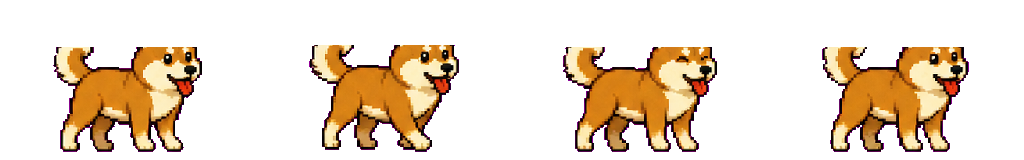
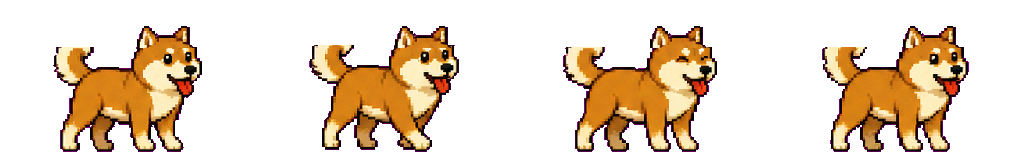
fix: preserve desktop pet ears and fall frames

diff --git a/js/main.js b/js/main.js
@@ -53,9 +53,9 @@ document.addEventListener("DOMContentLoaded", () => {
     if (document.querySelector('link[data-desktop-pet-style]')) return;
     const petStyles = document.createElement("link");
     petStyles.rel = "stylesheet";
-    petStyles.href = new URL("css/desktop-pet.css?v=1.5.0", siteRoot).href;
+    petStyles.href = new URL("css/desktop-pet.css?v=1.6.0", siteRoot).href;
     petStyles.dataset.desktopPetStyle = "true";
-    const petModuleUrl = new URL("js/desktop-pet.js?v=1.5.0", siteRoot).href;
+    const petModuleUrl = new URL("js/desktop-pet.js?v=1.6.0", siteRoot).href;
     // 样式就绪后再加载组件，避免慢速网络下未应用 CSS 的桌宠短暂闪现。
     petStyles.addEventListener("load", () => {
       void import(petModuleUrl).catch((error) => console.error(`桌宠模块加载失败：${petModuleUrl}`, error));

diff --git a/js/desktop-pet.js b/js/desktop-pet.js
@@ -148,7 +148,8 @@ var SpriteTransitionController = class {
 };
 
 // ../src/components/DesktopPet/petAssets.ts
-var petAsset = (fileName) => new URL(`../images/pet/${fileName}`, import.meta.url).href;
+var petAssetVersion = "1.6.0";
+var petAsset = (fileName) => new URL(`../images/pet/${fileName}?v=${petAssetVersion}`, import.meta.url).href;
 var petSprite = (fileName, fps, loop = true, offsetY = -18) => ({
   src: petAsset(fileName),
   frameWidth: 256,
@@ -448,6 +449,8 @@ var DesktopPet = class {
         this.startFall(fallTarget, () => this.resumeSuspendedBehavior(session.timer));
         return;
       }
+      this.petLocation = "floor";
+      this.renderPositions();
       this.startFall("dog", () => this.finishDogDrop());
     });
     __publicField(this, "handleDragCancel", (event) => {

diff --git a/src/components/DesktopPet/petAssets.ts b/src/components/DesktopPet/petAssets.ts
@@ -1,6 +1,8 @@
 import type { PetState, SpriteDefinition } from "./types";
 
-const petAsset = (fileName: string): string => new URL(`../images/pet/${fileName}`, import.meta.url).href;
+const petAssetVersion = "1.6.0";
+const petAsset = (fileName: string): string =>
+  new URL(`../images/pet/${fileName}?v=${petAssetVersion}`, import.meta.url).href;
 
 const petSprite = (fileName: string, fps: number, loop = true, offsetY = -18): SpriteDefinition => ({
   src: petAsset(fileName),

diff --git a/src/components/DesktopPet/DesktopPet.ts b/src/components/DesktopPet/DesktopPet.ts
@@ -314,6 +314,9 @@ export class DesktopPet {
       return;
     }
 
+    // 松手后柴犬已脱离狗窝；必须在首个下落帧前关闭窝内裁切，避免下半身闪隐。
+    this.petLocation = "floor";
+    this.renderPositions();
     this.startFall("dog", () => this.finishDogDrop());
   };
 
